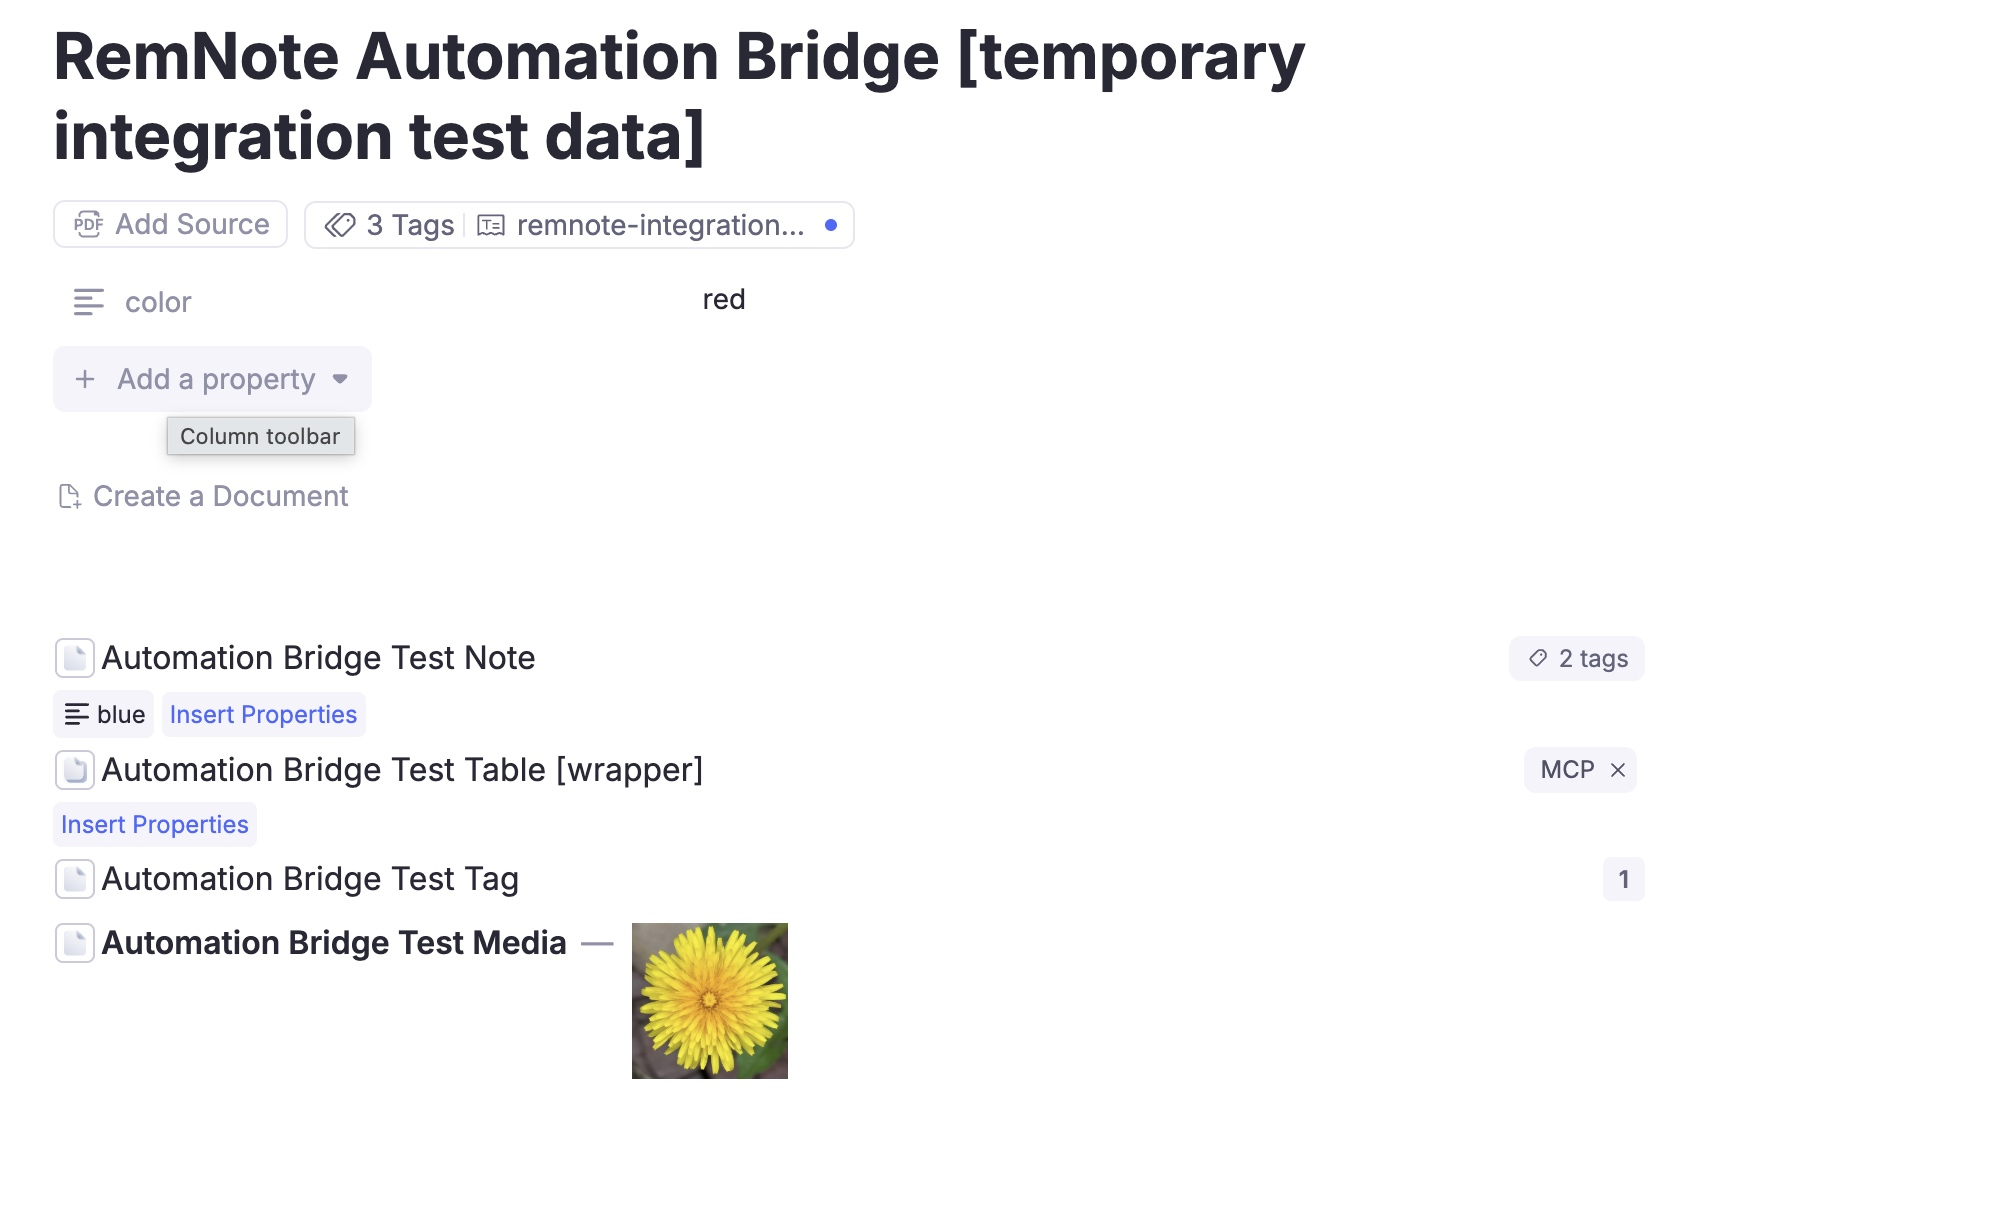
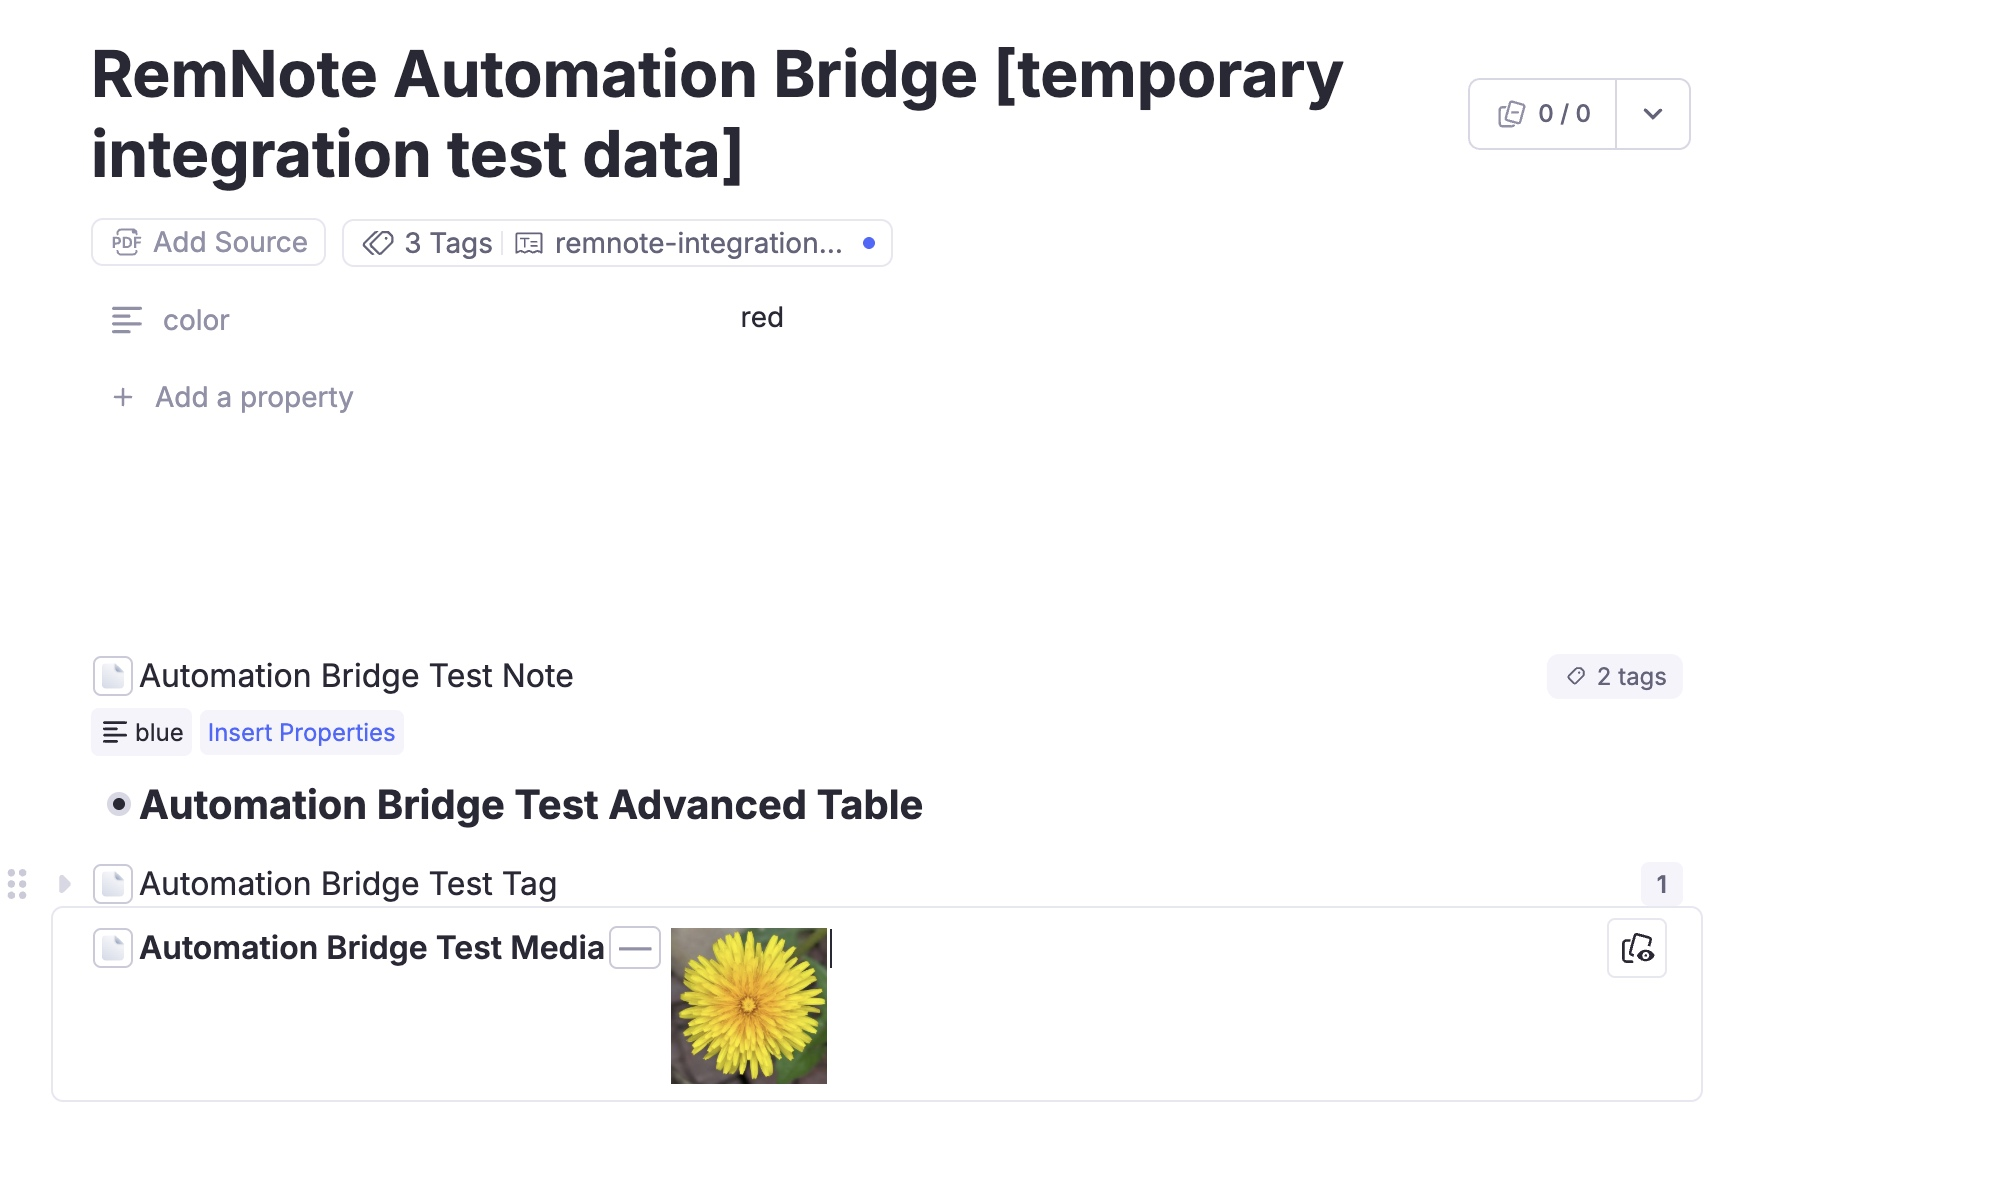
test(integration): fix Advanced Table fixture
Resolve the property-bearing table by normalized title and ignore the optional wrapper. Validate multiple named Salary rows while tolerating empty or unrelated entries.

Refs #27

diff --git a/test/helpers/integration-fixtures.ts b/test/helpers/integration-fixtures.ts
@@ -1,8 +1,9 @@
 export const PROPERTY_FIXTURE_TITLE = 'Automation Bridge Test Tag';
 export const PROPERTY_FIXTURE_NAME = 'automation-level';
-export const TABLE_FIXTURE_TITLE = 'Automation Bridge Test Advanced Table';
+export const TABLE_FIXTURE_TITLE = 'Automation Bridge Advanced Table';
 export const TABLE_FIXTURE_NUMERIC_PROPERTY = 'Salary';
 export const TABLE_FIXTURE_MIN_ROWS = 2;
+export const TABLE_FIXTURE_VALIDATION_LIMIT = 150;
 export const MEDIA_FIXTURE_TITLE = 'Automation Bridge Test Media';
 
 export interface PersistentIntegrationFixtures {
@@ -36,10 +37,10 @@ async function resolveTableFixture(
   );
   let tableValue: unknown;
   try {
-    tableValue = await reader.readTableByRemId(tableRemId);
+    tableValue = await reader.readTableByRemId(tableRemId, TABLE_FIXTURE_VALIDATION_LIMIT);
   } catch (error) {
     throw new Error(
-      `Required integration fixture "${TABLE_FIXTURE_TITLE}" is not a readable Advanced Table. Create it with a numeric "${TABLE_FIXTURE_NUMERIC_PROPERTY}" property and at least ${TABLE_FIXTURE_MIN_ROWS} rows, then rerun the suite.`,
+      `Required integration fixture "${TABLE_FIXTURE_TITLE}" is not a readable Advanced Table. Create it with a numeric "${TABLE_FIXTURE_NUMERIC_PROPERTY}" property and at least ${TABLE_FIXTURE_MIN_ROWS} named rows containing finite numeric values, then rerun the suite.`,
       { cause: error }
     );
   }
@@ -68,28 +69,22 @@ async function resolveTableFixture(
       `Fixture "${TABLE_FIXTURE_TITLE}" must have a numeric "${TABLE_FIXTURE_NUMERIC_PROPERTY}" property.`
     );
   }
-  if (table.totalRows < TABLE_FIXTURE_MIN_ROWS) {
+  const numericPropertyRemId = numericProperty.propertyId as string;
+  const validRows = (table.rows as Array<Record<string, unknown>>).filter((row) => {
+    if (typeof row.name !== 'string' || row.name.trim() === '') return false;
+    if (!row.values || typeof row.values !== 'object' || Array.isArray(row.values)) return false;
+    const value = (row.values as Record<string, unknown>)[numericPropertyRemId];
+    return typeof value === 'string' && value.trim() !== '' && Number.isFinite(Number(value));
+  });
+  if (validRows.length < TABLE_FIXTURE_MIN_ROWS) {
     throw new Error(
-      `Fixture "${TABLE_FIXTURE_TITLE}" must have at least ${TABLE_FIXTURE_MIN_ROWS} rows; found ${table.totalRows}.`
-    );
-  }
-
-  const sampleRow = (table.rows as Array<Record<string, unknown>>)[0];
-  const sampleValues = sampleRow && asRecord(sampleRow.values, 'Advanced Table sample row values');
-  const sampleValue = sampleValues?.[numericProperty.propertyId as string];
-  if (
-    typeof sampleValue !== 'string' ||
-    sampleValue.trim() === '' ||
-    !Number.isFinite(Number(sampleValue))
-  ) {
-    throw new Error(
-      `Fixture "${TABLE_FIXTURE_TITLE}" rows must contain numeric "${TABLE_FIXTURE_NUMERIC_PROPERTY}" values.`
+      `Fixture "${TABLE_FIXTURE_TITLE}" must have at least ${TABLE_FIXTURE_MIN_ROWS} named rows with finite numeric "${TABLE_FIXTURE_NUMERIC_PROPERTY}" values; found ${validRows.length}. Empty or unrelated rows are ignored.`
     );
   }
 
   return {
     tableRemId,
-    numericPropertyRemId: numericProperty.propertyId as string,
+    numericPropertyRemId,
   };
 }
 
@@ -99,7 +94,7 @@ export interface PersistentFixtureResolution {
 }
 
 export interface PersistentFixtureReader {
-  readTableByRemId(remId: string): Promise<unknown>;
+  readTableByRemId(remId: string, limit: number): Promise<unknown>;
   searchByTitle(title: string): Promise<unknown>;
   readNoteWithMedia(remId: string): Promise<unknown>;
 }
@@ -152,7 +147,7 @@ async function resolvePropertyFixture(
   );
   let tableValue: unknown;
   try {
-    tableValue = await reader.readTableByRemId(tableRemId);
+    tableValue = await reader.readTableByRemId(tableRemId, 1);
   } catch (error) {
     throw new Error(
       `Required integration fixture "${PROPERTY_FIXTURE_TITLE}" is missing or is not a property-bearing tag/table. Create it with a text-compatible "${PROPERTY_FIXTURE_NAME}" property and rerun the suite.`,

diff --git a/test/unit/integration-fixtures.test.ts b/test/unit/integration-fixtures.test.ts
@@ -14,8 +14,10 @@ function makeAdvancedTable(overrides: Record<string, unknown> = {}): Record<stri
     rows: [
       { remId: 'row-1', name: 'Andrea', values: { 'salary-1': '300' } },
       { remId: 'row-2', name: 'Jozef', values: { 'salary-1': '500' } },
+      { remId: 'row-empty', name: '', values: { 'salary-1': '' } },
+      { remId: 'row-unrelated', name: 'Unrelated', values: {} },
     ],
-    totalRows: 2,
+    totalRows: 4,
     ...overrides,
   };
 }
@@ -76,12 +78,40 @@ describe('resolvePersistentIntegrationFixtures', () => {
       },
       issues: [],
     });
-    expect(reader.readTableByRemId).toHaveBeenCalledWith('table-1');
-    expect(reader.readTableByRemId).toHaveBeenCalledWith('tag-1');
+    expect(reader.readTableByRemId).toHaveBeenCalledWith('table-1', 150);
+    expect(reader.readTableByRemId).toHaveBeenCalledWith('tag-1', 1);
     expect(reader.searchByTitle).toHaveBeenCalledWith(TABLE_FIXTURE_TITLE);
     expect(reader.searchByTitle).toHaveBeenCalledWith(PROPERTY_FIXTURE_TITLE);
     expect(reader.searchByTitle).toHaveBeenCalledWith(MEDIA_FIXTURE_TITLE);
     expect(reader.readNoteWithMedia).toHaveBeenCalledWith('media-rem-1');
+  });
+
+  it('resolves the actual table by normalized title while ignoring its wrapper', async () => {
+    const reader = makeReader({
+      searchByTitle: vi.fn().mockImplementation((title: string) => {
+        if (title === TABLE_FIXTURE_TITLE) {
+          return Promise.resolve({
+            results: [
+              { remId: 'wrapper-1', title: 'Automation Bridge Test Advanced Table' },
+              { remId: 'table-1', title: `  ${TABLE_FIXTURE_TITLE.toUpperCase()}  ` },
+            ],
+          });
+        }
+        if (title === PROPERTY_FIXTURE_TITLE) {
+          return Promise.resolve({
+            results: [{ remId: 'tag-1', title: PROPERTY_FIXTURE_TITLE }],
+          });
+        }
+        return Promise.resolve({
+          results: [{ remId: 'media-rem-1', title: MEDIA_FIXTURE_TITLE }],
+        });
+      }),
+    });
+
+    const result = await resolvePersistentIntegrationFixtures(reader);
+
+    expect(result.fixtures.table?.tableRemId).toBe('table-1');
+    expect(result.issues).toEqual([]);
   });
 
   it('reports a malformed property fixture while preserving media resolution', async () => {
@@ -134,7 +164,7 @@ describe('resolvePersistentIntegrationFixtures', () => {
     ]);
   });
 
-  it('requires multiple Advanced Table rows with numeric values', async () => {
+  it('requires multiple named Advanced Table rows with finite numeric values', async () => {
     const reader = makeReader({
       readTableByRemId: vi.fn().mockImplementation((remId: string) =>
         Promise.resolve(
@@ -154,7 +184,9 @@ describe('resolvePersistentIntegrationFixtures', () => {
     expect(result.issues[0]).toEqual(
       expect.objectContaining({
         fixture: 'table',
-        error: expect.stringContaining('must have at least 2 rows'),
+        error: expect.stringContaining(
+          'must have at least 2 named rows with finite numeric "Salary" values'
+        ),
       })
     );
   });

diff --git a/test/integration/workflows/06-read-table.ts b/test/integration/workflows/06-read-table.ts
@@ -93,13 +93,20 @@ export async function readTableWorkflow(
         fixture.numericPropertyRemId,
         'fixture numeric property ID'
       );
-      for (const row of result.rows.slice(0, TABLE_FIXTURE_MIN_ROWS)) {
+      const validRows = result.rows.filter((row) => {
         const value = row.values[fixture.numericPropertyRemId];
-        assertTruthy(
-          typeof value === 'string' && value.trim() !== '' && Number.isFinite(Number(value)),
-          `${TABLE_FIXTURE_NUMERIC_PROPERTY} values should be numeric`
+        return (
+          typeof row.name === 'string' &&
+          row.name.trim() !== '' &&
+          typeof value === 'string' &&
+          value.trim() !== '' &&
+          Number.isFinite(Number(value))
         );
-      }
+      });
+      assertTruthy(
+        validRows.length >= TABLE_FIXTURE_MIN_ROWS,
+        `table should contain at least ${TABLE_FIXTURE_MIN_ROWS} named rows with finite numeric ${TABLE_FIXTURE_NUMERIC_PROPERTY} values`
+      );
 
       if (result.columns.length > 0) {
         const firstCol = result.columns[0] as unknown as Record<string, unknown>;

diff --git a/test/integration/cli/workflows/07-read-table.ts b/test/integration/cli/workflows/07-read-table.ts
@@ -111,13 +111,20 @@ export async function readTableWorkflow(
         fixture.numericPropertyRemId,
         'fixture numeric property ID'
       );
-      for (const row of data.rows.slice(0, TABLE_FIXTURE_MIN_ROWS)) {
+      const validRows = data.rows.filter((row) => {
         const value = row.values[fixture.numericPropertyRemId];
-        assertTruthy(
-          typeof value === 'string' && value.trim() !== '' && Number.isFinite(Number(value)),
-          `${TABLE_FIXTURE_NUMERIC_PROPERTY} values should be numeric`
+        return (
+          typeof row.name === 'string' &&
+          row.name.trim() !== '' &&
+          typeof value === 'string' &&
+          value.trim() !== '' &&
+          Number.isFinite(Number(value))
         );
-      }
+      });
+      assertTruthy(
+        validRows.length >= TABLE_FIXTURE_MIN_ROWS,
+        `table should contain at least ${TABLE_FIXTURE_MIN_ROWS} named rows with finite numeric ${TABLE_FIXTURE_NUMERIC_PROPERTY} values`
+      );
 
       baseline = data;
       steps.push({

diff --git a/test/integration/cli/run-integration.ts b/test/integration/cli/run-integration.ts
@@ -323,8 +323,8 @@ async function main(): Promise<void> {
 
   {
     const resolution = await resolvePersistentIntegrationFixtures({
-      readTableByRemId: (remId) =>
-        cli.runExpectSuccess(['read-table', '--rem-id', remId, '--limit', '1']),
+      readTableByRemId: (remId, limit) =>
+        cli.runExpectSuccess(['read-table', '--rem-id', remId, '--limit', String(limit)]),
       searchByTitle: (title) =>
         cli.runExpectSuccess(['search', title, '--limit', '150', '--content-mode', 'none']),
       readNoteWithMedia: (remId) =>

diff --git a/test/integration/run-integration.ts b/test/integration/run-integration.ts
@@ -344,8 +344,8 @@ async function main(): Promise<void> {
 
   {
     const resolution = await resolvePersistentIntegrationFixtures({
-      readTableByRemId: (remId) =>
-        client.callTool('remnote_read_table', { tableRemId: remId, limit: 1 }),
+      readTableByRemId: (remId, limit) =>
+        client.callTool('remnote_read_table', { tableRemId: remId, limit }),
       searchByTitle: (title) =>
         client.callTool('remnote_search', { query: title, limit: 150, contentMode: 'none' }),
       readNoteWithMedia: (remId) =>

diff --git a/docs/guides/integration-testing.md b/docs/guides/integration-testing.md
@@ -190,7 +190,7 @@ separate JSON test config are required.
 The fixtures may share a parent note for convenient maintenance, but the parent title and location are not part of the
 contract. Keep exactly one Rem with each required fixture title.
 
-![Persistent integration fixture overview](../images/integration-testing-05-persistent-fixtures-overview.jpg)
+![Persistent integration fixtures with an optional Advanced Table wrapper](../images/integration-testing-05-persistent-fixtures-overview.jpg)
 
 1. Create a tag named `Automation Bridge Test Tag`.
 2. Add a text-compatible property named `automation-level` to that tag. The property-write tests use this tag as their
@@ -198,11 +198,16 @@ contract. Keep exactly one Rem with each required fixture title.
 
 ![Automation Bridge Test Tag with automation-level property](../images/integration-testing-06-test-tag-property.jpg)
 
-3. Create a standalone Advanced Table named `Automation Bridge Test Advanced Table`.
-4. Add a numeric property named `Salary` and at least two rows. Give each row a name and a numeric `Salary` value so the
-   tests can verify the numeric schema, row values, filtering, limits, and offsets.
+3. Create the property-bearing table/tag named `Automation Bridge Advanced Table`.
+4. Add a numeric property named `Salary` and at least two named rows with finite numeric `Salary` values. Empty or
+   unrelated extra rows are allowed; the tests ignore them while validating the numeric schema, row values, filtering,
+   limits, and offsets.
 
-![Automation Bridge Test Advanced Table with numeric Salary values](../images/integration-testing-07-advanced-table-fixture.jpg)
+You may optionally create a document named `Automation Bridge Test Advanced Table` to organize or display the table.
+That document is only a wrapper: the tests resolve the actual `Automation Bridge Advanced Table` property-bearing Rem
+by normalized exact title and never use the wrapper's Rem ID.
+
+![Optional wrapper displaying the required Automation Bridge Advanced Table](../images/integration-testing-07-advanced-table-fixture.jpg)
 
 5. Create a flashcard whose front is the exact plain-text title `Automation Bridge Test Media`.
 6. Drag or upload a local PNG, JPEG, GIF, or WebP file into the back of that card. Keep the front text-only so exact-title
@@ -216,8 +221,8 @@ their dependent workflows are skipped, so unrelated coverage still runs.
 
 The direct MCP and CLI integration suites:
 
-- read the standalone Advanced Table by exact title and derived Rem ID, require numeric `Salary` values and multiple
-  rows, and validate filtering and pagination
+- read `Automation Bridge Advanced Table` by normalized exact title and derived Rem ID, require at least two named rows
+  with finite numeric `Salary` values while tolerating unrelated/empty rows, and validate filtering and pagination
 - read the exact fixture tag title as a table and derive its Rem ID and `automation-level` property ID
 - set a unique text value on the run's created test note through `remnote_set_property` / `remnote-cli set-property`
 - read the fixture tag/table again and verify the note row contains the kept value

diff --git a/docs/agent-validation-prompts/mcp-tool-smoke-test.md b/docs/agent-validation-prompts/mcp-tool-smoke-test.md
@@ -37,8 +37,10 @@ required call fails.
 
 ## Required Persistent Fixtures
 
-- Exactly one standalone Advanced Table titled `Automation Bridge Test Advanced Table`, with a numeric property named
-  `Salary` and at least two named rows containing numeric `Salary` values.
+- Exactly one property-bearing table/tag titled `Automation Bridge Advanced Table`, with a numeric property named
+  `Salary` and at least two named rows containing finite numeric `Salary` values. Empty or unrelated extra rows are
+  allowed. A document titled `Automation Bridge Test Advanced Table` may wrap or display this table but is optional and
+  is not the fixture.
 - Exactly one property-bearing tag titled `Automation Bridge Test Tag`, with a text-compatible property named
   `automation-level`.
 - Exactly one flashcard with the plain-text front `Automation Bridge Test Media` and at least one locally imported
@@ -116,10 +118,12 @@ Resolve all three by exact title and derive all Rem, property, field, and media 
    - Read or list the run note again and confirm `moveCandidateRemId` is still a direct child, proving dry-run did not
      change the Rem parent.
 
-Search for the exact title `Automation Bridge Test Advanced Table`. Stop and report missing or duplicate fixtures.
-Read the single match with `remnote_read_table` first by `tableTitle` and then by its derived `tableRemId`. Confirm it
-has a numeric `Salary` column and at least two rows with numeric values. Use `propertyFilter: ["Salary"]`, `limit`, and
-`offset` to verify filtering and pagination without relying on a configured Rem ID.
+Search for the normalized exact title `Automation Bridge Advanced Table`. Ignore the optional
+`Automation Bridge Test Advanced Table` wrapper/document and stop only for missing or duplicate exact table fixtures.
+Read the single table match with `remnote_read_table` first by `tableTitle` and then by its derived `tableRemId`. Confirm
+it has a numeric `Salary` column and at least two named rows with finite numeric values, tolerating unrelated or empty
+extra rows. Use `propertyFilter: ["Salary"]`, `limit`, and `offset` to verify filtering and pagination without relying on
+a configured Rem ID.
 
 Search for the exact title `Automation Bridge Test Media`. Stop and report missing or duplicate fixtures. Read the
 single match with `includeMediaMetadata=true`, select its first ordered RemNote-managed local image, and call

diff --git a/CHANGELOG.md b/CHANGELOG.md
@@ -36,9 +36,10 @@ Versioning](https://semver.org/spec/v2.0.0.html).
 ### Changed
 
 - Replace integration-test table/media IDs and `REMNOTE_TEST_MEDIA_*` variables with preflight resolution of the fixed
-  `Automation Bridge Test Advanced Table`, `Automation Bridge Test Tag`, and `Automation Bridge Test Media` fixture
-  names across MCP, MCPB, CLI, and smoke tests. Validate the standalone table's numeric `Salary` column and predefined
-  rows, and document all fixture setup with RemNote screenshots.
+  `Automation Bridge Advanced Table`, `Automation Bridge Test Tag`, and `Automation Bridge Test Media` fixture names
+  across MCP, MCPB, CLI, and smoke tests. Resolve the actual property-bearing table instead of the optional
+  `Automation Bridge Test Advanced Table` wrapper, validate at least two named rows with finite numeric `Salary` values
+  while tolerating unrelated/empty rows, and document all fixture setup with RemNote screenshots.
 - Continue all MCP, MCPB, and CLI live suites when persistent fixtures are missing or an earlier transport fails,
   listing every unavailable fixture and skipping only dependent workflows before returning the aggregate status.
 - Use shared workflow `v0.4.0` for the Node.js 22 and 24 CI matrix.

diff --git a/docs/agent-validation-prompts/README.md b/docs/agent-validation-prompts/README.md
@@ -16,7 +16,7 @@ RemNote Automation Bridge [temporary integration test data]
 ```
 
 The prompt creates test artifacts with the `[MCP-AGENT-TEST]` prefix so they can be found and removed manually later.
-Table, property, and managed-media checks use the persistent fixtures `Automation Bridge Test Advanced Table`,
+Table, property, and managed-media checks use the persistent fixtures `Automation Bridge Advanced Table`,
 `Automation Bridge Test Tag`, and `Automation Bridge Test Media`, whose setup is documented in the integration-testing
 guide.
 

diff --git a/docs/guides/testing-strategy.md b/docs/guides/testing-strategy.md
@@ -28,7 +28,7 @@ This suite creates real test artifacts under the shared anchor note:
 RemNote Automation Bridge [temporary integration test data]
 ```
 
-It resolves the persistent fixtures `Automation Bridge Test Advanced Table`, `Automation Bridge Test Tag`, and
+It resolves the persistent fixtures `Automation Bridge Advanced Table`, `Automation Bridge Test Tag`, and
 `Automation Bridge Test Media` by exact title; their setup contract is documented in the integration guide.
 
 Canonical guide:
